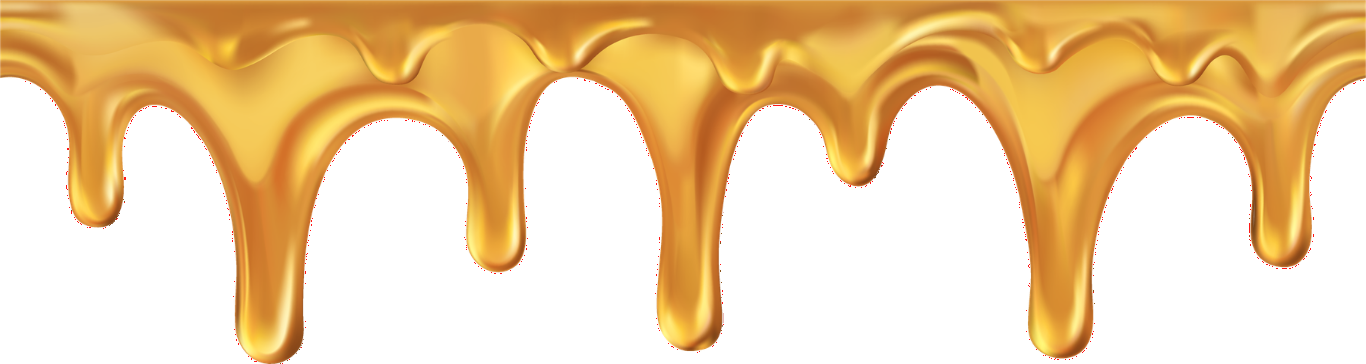
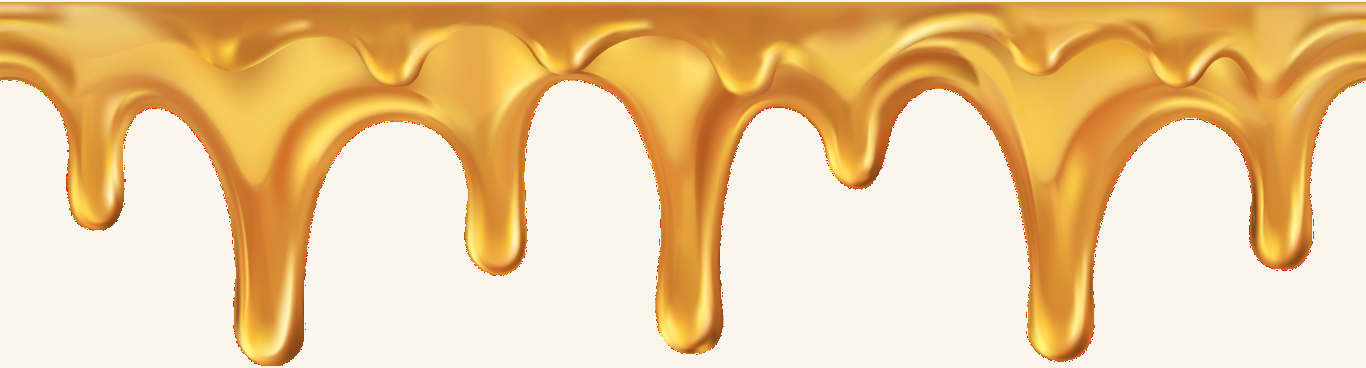
auto-commit for b81df69c-dd2d-4a86-b4fe-fd9c99ce25d7

diff --git a/frontend/src/pages/BetaSignupPage.js b/frontend/src/pages/BetaSignupPage.js
@@ -68,8 +68,6 @@ const BetaSignupPage = () => {
             backgroundPosition: 'top center',
             backgroundSize: 'auto 100%',
             height: '200px',
-            mixBlendMode: 'multiply',
-            imageRendering: 'high-quality',
           }}
         />
 

diff --git a/frontend/src/pages/LandingPage.js b/frontend/src/pages/LandingPage.js
@@ -73,8 +73,6 @@ const LandingPage = () => {
             backgroundPosition: 'top center',
             backgroundSize: 'auto 100%',
             height: '200px',
-            mixBlendMode: 'multiply',
-            imageRendering: 'high-quality',
           }}
         />
 
